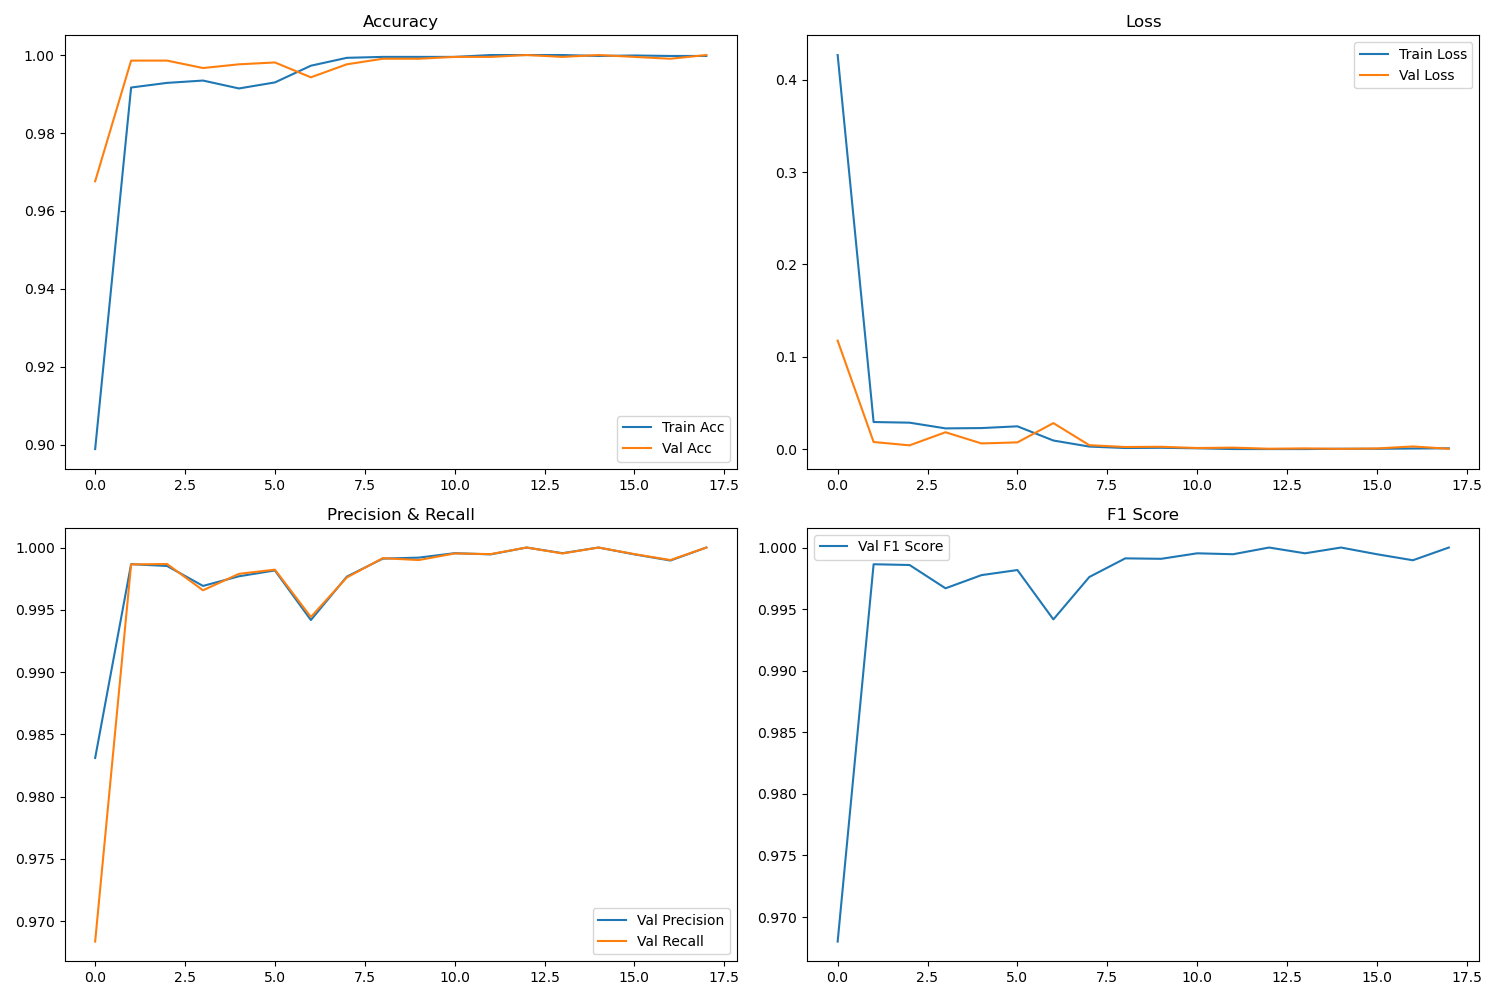
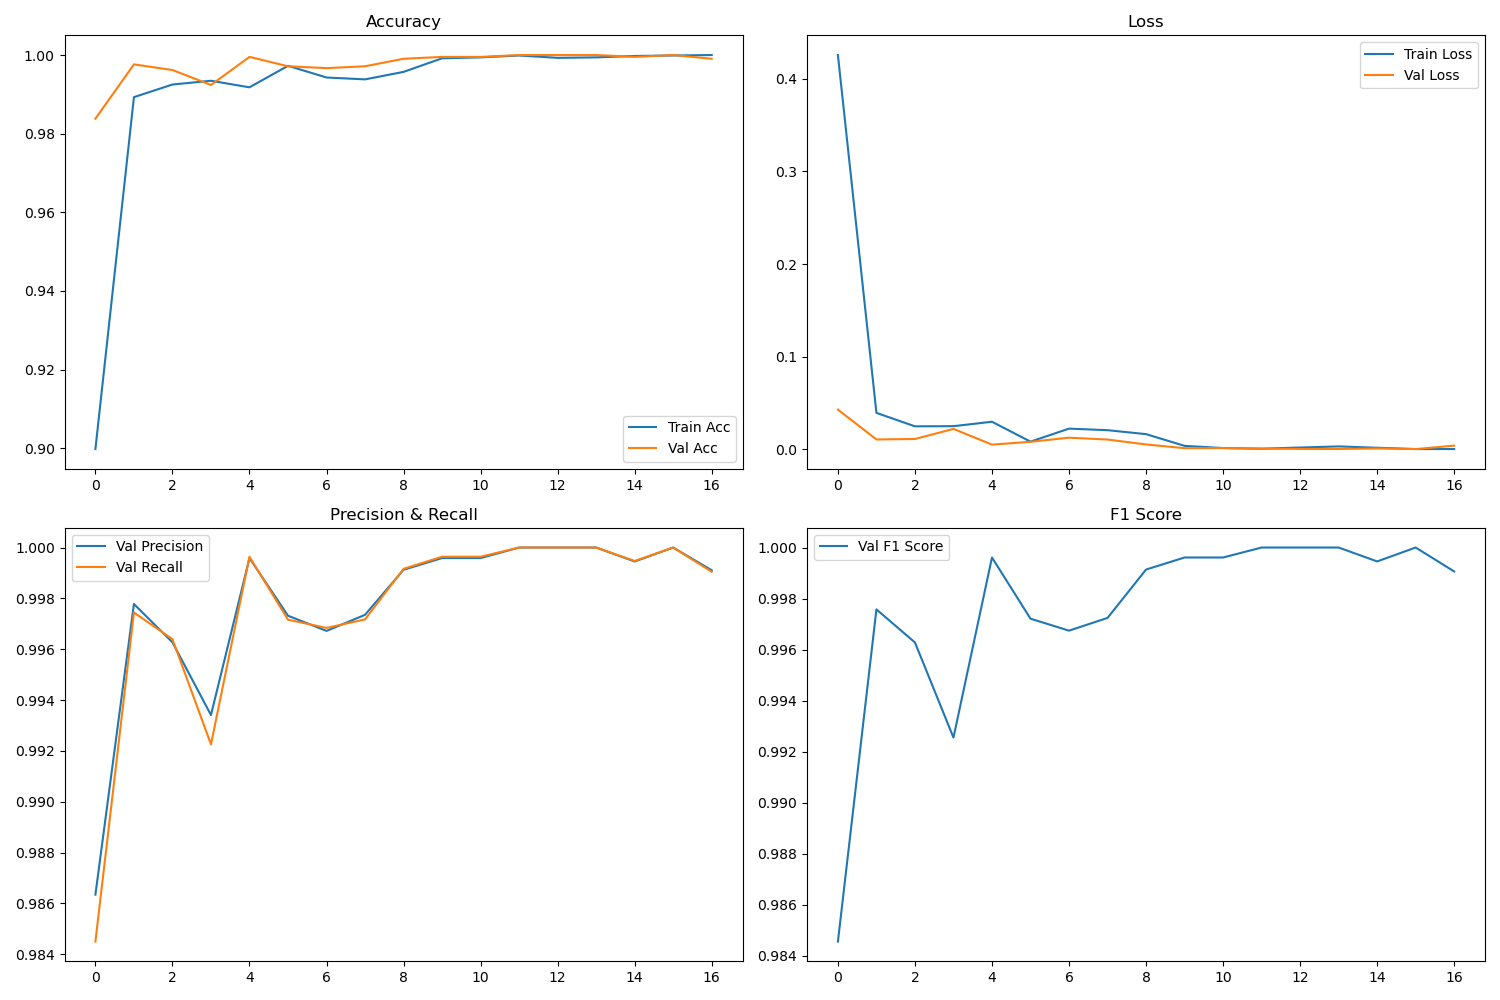
helo

diff --git a/evaluate_all.py b/evaluate_all.py
@@ -1,0 +1,137 @@
+import torch
+import torch.nn as nn
+from torchvision import datasets, transforms, models
+from torch.utils.data import DataLoader, random_split
+from sklearn.metrics import accuracy_score, precision_recall_fscore_support
+import pandas as pd
+import os
+
+DATA_DIR = "Car_Logo_Dataset"
+BATCH_SIZE = 32
+SEED = 42
+
+device = torch.device("cuda" if torch.cuda.is_available() else "cpu")
+
+# Common transforms
+val_transforms = transforms.Compose([
+    transforms.Resize((224, 224)),
+    transforms.ToTensor(),
+    transforms.Normalize(mean=[0.485, 0.456, 0.406], std=[0.229, 0.224, 0.225]),
+])
+
+# Load dataset and split
+full_dataset = datasets.ImageFolder(DATA_DIR)
+total = len(full_dataset)
+val_size = int(0.2 * total)
+train_size = total - val_size
+_, val_dataset = random_split(full_dataset, [train_size, val_size], generator=torch.Generator().manual_seed(SEED))
+val_dataset.dataset.transform = val_transforms
+val_loader = DataLoader(val_dataset, batch_size=BATCH_SIZE, shuffle=False, num_workers=2)
+class_names = full_dataset.classes
+NUM_CLASSES = len(class_names)
+
+def get_alexnet():
+    model = models.alexnet()
+    model.classifier[6] = nn.Linear(4096, NUM_CLASSES)
+    # The script used a more complex head, let me check it again
+    return model
+
+def get_vgg16():
+    model = models.vgg16()
+    model.classifier[6] = nn.Linear(4096, NUM_CLASSES)
+    return model
+
+def get_resnet50():
+    model = models.resnet50()
+    model.fc = nn.Linear(model.fc.in_features, NUM_CLASSES)
+    return model
+
+def get_googlenet():
+    model = models.googlenet(aux_logits=True)
+    model.fc = nn.Linear(model.fc.in_features, NUM_CLASSES)
+    # Auxiliary classifiers
+    model.aux1.fc2 = nn.Linear(model.aux1.fc2.in_features, NUM_CLASSES)
+    model.aux2.fc2 = nn.Linear(model.aux2.fc2.in_features, NUM_CLASSES)
+    return model
+
+def get_efficientnet_b0():
+    model = models.efficientnet_b0()
+    model.classifier[1] = nn.Linear(model.classifier[1].in_features, NUM_CLASSES)
+    return model
+
+# Re-check AlexNet head from Car_Logo_AlexNet_Pretrained.py
+# model.classifier = nn.Sequential(
+#     nn.Dropout(0.5),
+#     nn.Linear(9216, 4096),
+#     nn.ReLU(inplace=True),
+#     nn.Dropout(0.5),
+#     nn.Linear(4096, 4096),
+#     nn.ReLU(inplace=True),
+#     nn.Linear(4096, NUM_CLASSES),
+# )
+
+def get_alexnet_custom():
+    model = models.alexnet()
+    model.classifier = nn.Sequential(
+        nn.Dropout(0.5),
+        nn.Linear(9216, 4096),
+        nn.ReLU(inplace=True),
+        nn.Dropout(0.5),
+        nn.Linear(4096, 4096),
+        nn.ReLU(inplace=True),
+        nn.Linear(4096, NUM_CLASSES),
+    )
+    return model
+
+model_configs = [
+    ("AlexNet", get_alexnet_custom, "best_alexnet_phase2_weights.pth"),
+    ("VGG16", get_vgg16, "best_vgg16_weights.pth"),
+    ("ResNet50", get_resnet50, "best_resnet50_weights.pth"),
+    ("GoogLeNet", get_googlenet, "best_googlenet_weights.pth"),
+    ("EfficientNet-B0", get_efficientnet_b0, "best_efficientnet_b0_weights.pth"),
+]
+
+results = []
+
+for name, model_fn, weight_path in model_configs:
+    print(f"Evaluating {name}...")
+    if not os.path.exists(weight_path):
+        print(f"Weight file {weight_path} not found. Skipping.")
+        continue
+    
+    model = model_fn().to(device)
+    model.load_state_dict(torch.load(weight_path, map_location=device))
+    model.eval()
+    
+    all_preds = []
+    all_labels = []
+    
+    with torch.no_grad():
+        for inputs, labels in val_loader:
+            inputs = inputs.to(device)
+            outputs = model(inputs)
+            # Handle GoogLeNet outputs (can be namedtuple in train mode or if aux_logits=True)
+            if hasattr(outputs, 'logits'):
+                outputs = outputs.logits
+            elif isinstance(outputs, (list, tuple)):
+                outputs = outputs[0]
+            
+            preds = torch.argmax(outputs, dim=1)
+            all_preds.extend(preds.cpu().numpy())
+            all_labels.extend(labels.numpy())
+            
+    acc = accuracy_score(all_labels, all_preds)
+    precision, recall, f1, _ = precision_recall_fscore_support(all_labels, all_preds, average='macro')
+    
+    results.append({
+        "Model": name,
+        "Accuracy": acc,
+        "Precision": precision,
+        "Recall": recall,
+        "F1-Score": f1
+    })
+
+df = pd.DataFrame(results)
+print("\nModel Comparison Table:")
+print(df.to_string(index=False))
+df.to_csv("model_comparison.csv", index=False)
